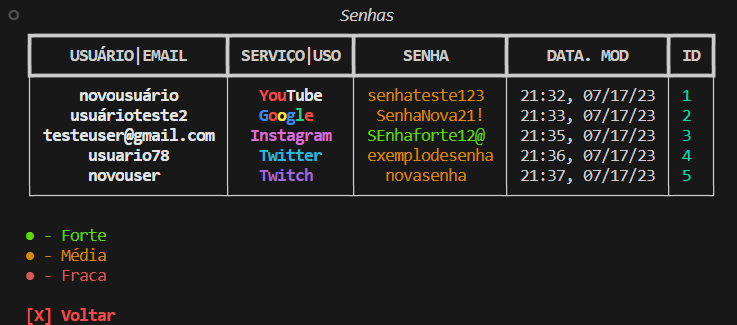
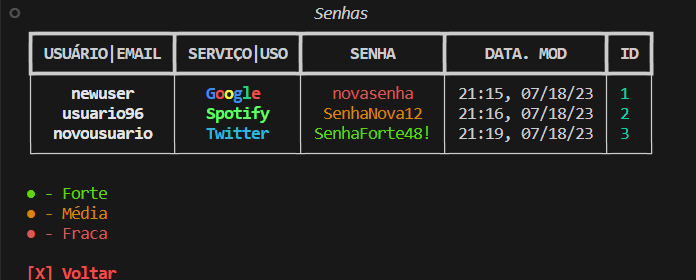
pass classification fix

diff --git a/main.py b/main.py
@@ -72,21 +72,19 @@ def color(input:str):
     "soundcloud":"[orange_red1]Soundcloud",
     "gmail":"[blue]G[red]m[yellow]a[blue]i[green]l",
     "facebook":"[blue3]Facebook",
+    "threads":"[grey78]Threads",
+    "spotify":"[sea_green2]Spotify",
+    "resso":"[deep_pink1]Resso",
+    "tiktok":"[steel_blue1]tik[deep_pink3]tok",
+    "tik tok":"[steel_blue1]tik[deep_pink3]tok",
     "":"[i]???",
     }
-    if input.lower() in servs:
-        return f"[bold]{servs[input.lower()]}[/bold]"
-    else:
-        return f"[bold]{input}[/bold]"
+    return f"[bold]{servs[input.lower()]}[/bold]" if input.lower() in servs else f"[bold]{input}[/bold]"
 
-def pass_strength(senha):
-    patterns = [r"[a-z]{8,}",r"[A-Z]{2,}",r"\W+",r"\d+"]
-    if all([re.findall(item,senha) for item in patterns]):
-        return f"[chartreuse3]{senha}"
-    elif not(any([re.findall(item,senha) for item in patterns])):
-        return f"[red]{senha}[/red]"
-    else:
-        return f"[orange3]{senha}"
+def pass_strength(senha:str):
+    patterns = [r"[a-z]",r"[A-Z]+",r"\d{2,}",r"\W+",r"^.{8,}"]
+    tester = [re.findall(item,senha) for item in patterns if re.findall(item,senha)]
+    return f"[chartreuse3]{senha}" if len(tester) == len(patterns) else f"[orange3]{senha}" if len(tester) >=4 else f"[red]{senha}"
 
 def confirm_options():
     os.system('cls')
